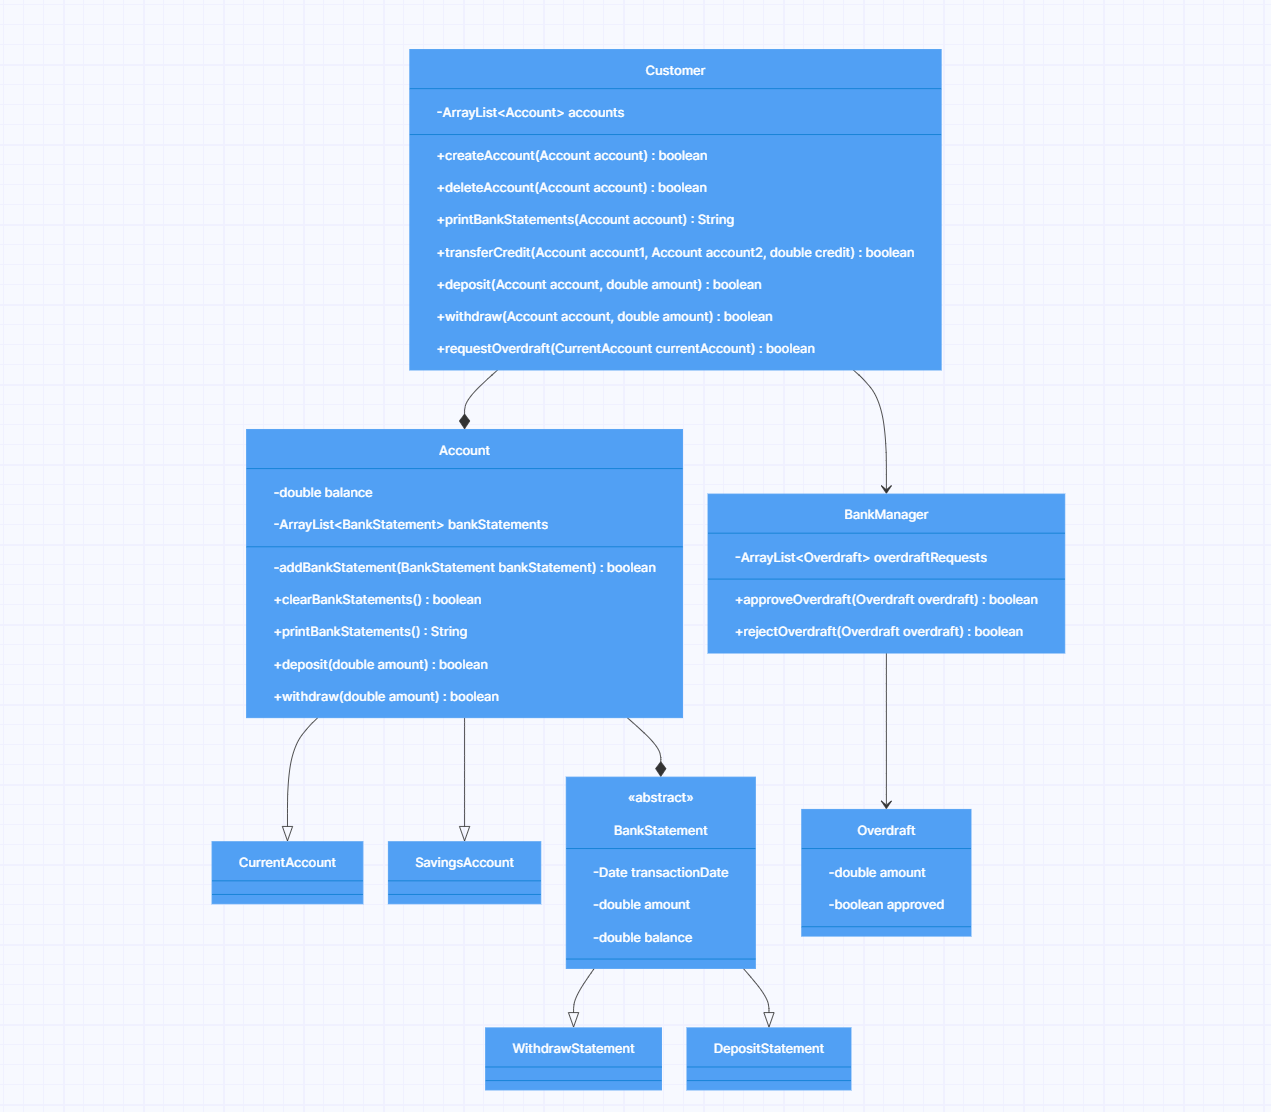
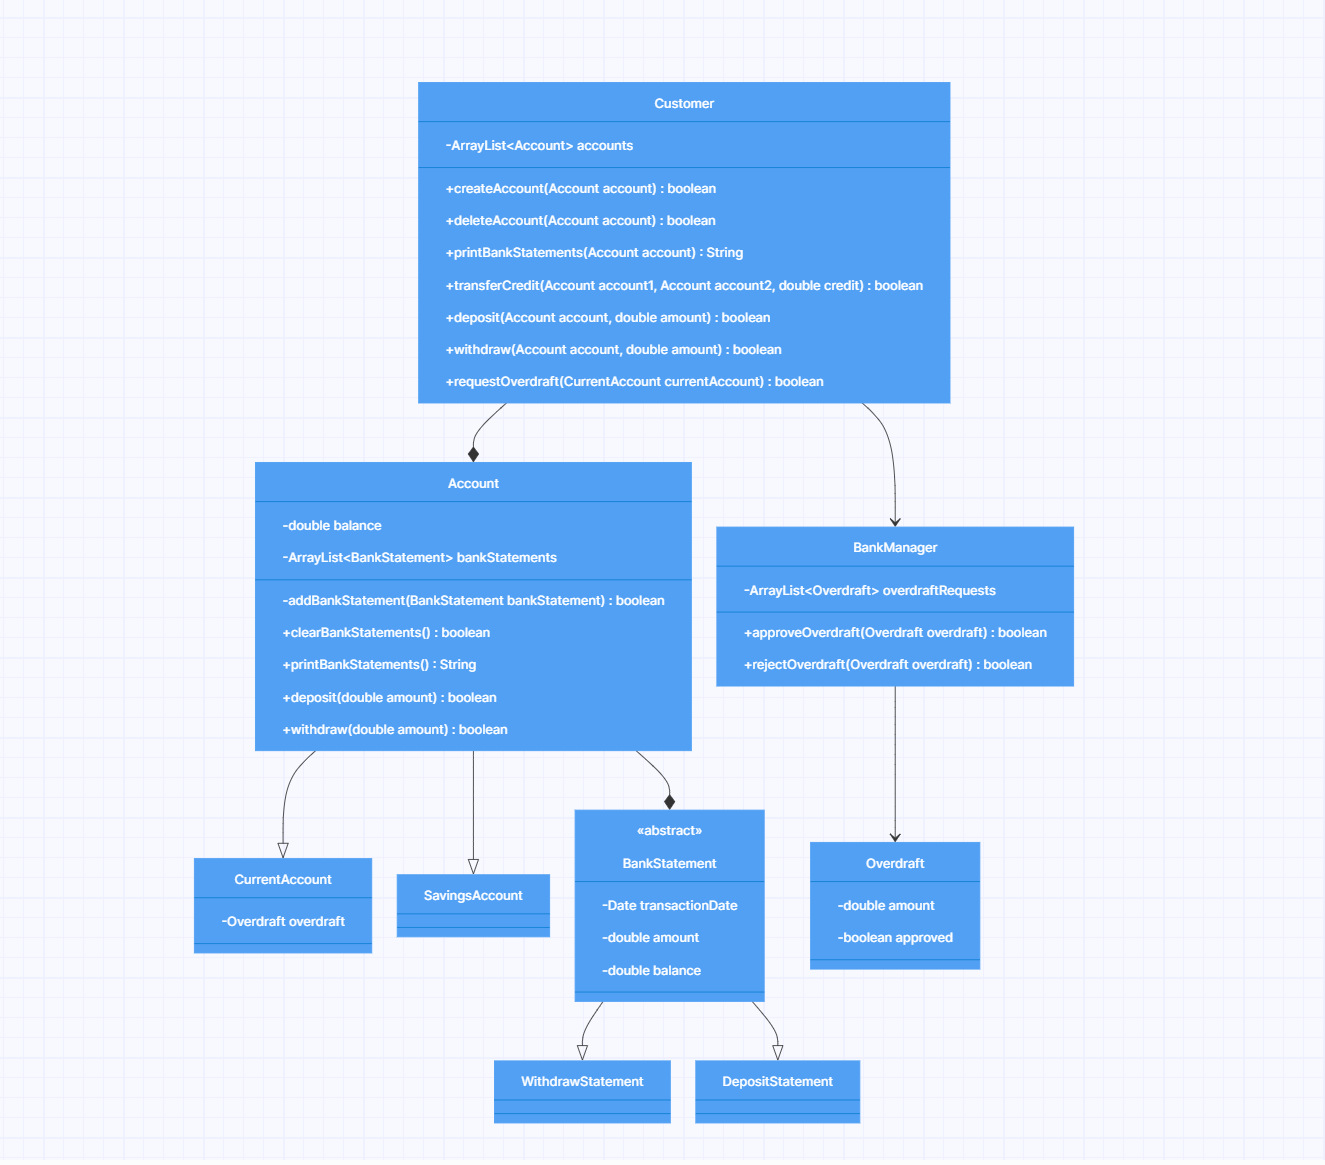
Add test for init overdraft and refactor domain model and classdiagram

Changed region(s): [[0.1841, 0.0306, 0.8592, 0.6727], [0.1227, 0.6421, 0.7671, 1.0]]

diff --git a/src/test/java/com/booleanuk/core/OverdraftTest.java b/src/test/java/com/booleanuk/core/OverdraftTest.java
@@ -1,0 +1,11 @@
+package com.booleanuk.core;
+
+import org.junit.jupiter.api.Test;
+
+public class OverdraftTest {
+
+    @Test
+    public void init() {
+        Overdraft overdraft = new Overdraft(500.00);
+    }
+}

diff --git a/src/test/java/com/booleanuk/core/BankManagerTest.java b/src/test/java/com/booleanuk/core/BankManagerTest.java
@@ -1,0 +1,4 @@
+package com.booleanuk.core;
+
+public class BankManagerTest {
+}

diff --git a/Domain-models.md b/Domain-models.md
@@ -213,7 +213,7 @@ Class Customer
 |                 |                                                                      |                                                              |         |
 
 
-Overdraft
+Class Overdraft
 
 | Class variables  | Method | Scenario | Return |
 |------------------|--------|----------|--------|
@@ -224,7 +224,14 @@ Overdraft
 
 
 
+Class CurrentAccount
 
+| Class variables     | Method | Scenario | Return |
+|---------------------|--------|----------|--------|
+| Overdraft overdraft |        |          |        |
+|                     |        |          |        |
+|                     |        |          |        |
+|                     |        |          |        |
 
 
 
